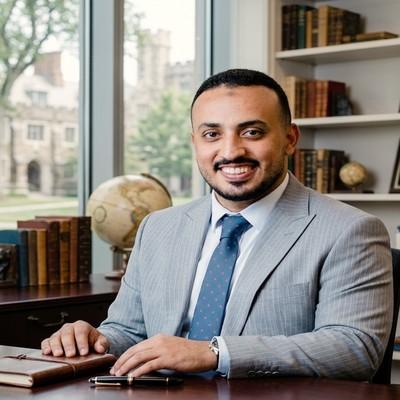
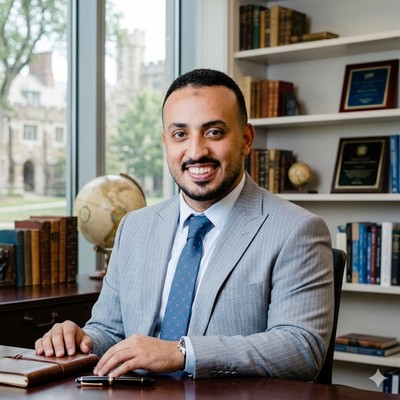
fix: portrait — no stretch, circular with gold ring
Root cause of the ugly result: I cropped the 1024x1024 original to
870x1024 (removing right side to re-center), then forced it to 600x600.
That's a 0.85 aspect ratio stretched to 1.0 — horizontal stretch.

Fixes:
1. Photo: Used the ORIGINAL 1024x1024 as-is, just resized to 600x600
   (no crop, no stretch). Applied only a subtle warm tint (+2% red,
   -2% blue). No desaturation — keep it natural.

2. Display: Changed from a stretched rounded-rectangle to a CIRCULAR
   portrait with concentric gold rings:
   - Outer gold ring (3px, 50% opacity)
   - Inner thin gold ring (1px, 30% opacity, 6px inset)
   - Photo inside (10px inset, rounded-full, object-cover)
   - Fixed 200x200px container — no stretching possible
   - Centered on mobile, left-aligned on desktop

The circular format is more elegant for a portrait and matches the
scholarly/manuscript aesthetic (think of a classical medallion).

diff --git a/src/components/sections/About.tsx b/src/components/sections/About.tsx
@@ -116,26 +116,36 @@ function ProfileTab() {
   return (
     <div className="grid grid-cols-1 lg:grid-cols-12 gap-8 lg:gap-16">
       <div className="lg:col-span-7">
-        {/* Founder portrait */}
+        {/* Founder portrait — circular with gold ring */}
         <FadeUp delay={0.05}>
           <div className="mb-8 flex justify-center lg:justify-start">
-            <div className="relative">
-              {/* Gold ring around the portrait */}
+            <div className="relative" style={{ width: "200px", height: "200px" }}>
+              {/* Gold ring */}
               <div
-                className="absolute inset-0 rounded-2xl"
+                className="absolute inset-0 rounded-full"
                 style={{
-                  border: "2px solid var(--gold)",
-                  transform: "scale(1.03)",
-                  opacity: 0.4,
-                  borderRadius: "1rem",
+                  border: "3px solid var(--gold)",
+                  opacity: 0.5,
                 }}
               />
+              {/* Inner padding ring */}
+              <div
+                className="absolute rounded-full"
+                style={{
+                  inset: "6px",
+                  border: "1px solid var(--gold)",
+                  opacity: 0.3,
+                }}
+              />
+              {/* The photo */}
               <img
                 src="/founder-portrait.jpg"
                 alt="Ahmed Ali — Founder of Studio of Phronesis"
-                className="w-48 h-48 md:w-56 md:h-56 object-cover rounded-2xl shadow-md"
+                className="absolute rounded-full object-cover"
                 style={{
-                  filter: "sepia(0.08) contrast(1.02)",
+                  inset: "10px",
+                  width: "calc(100% - 20px)",
+                  height: "calc(100% - 20px)",
                 }}
               />
             </div>